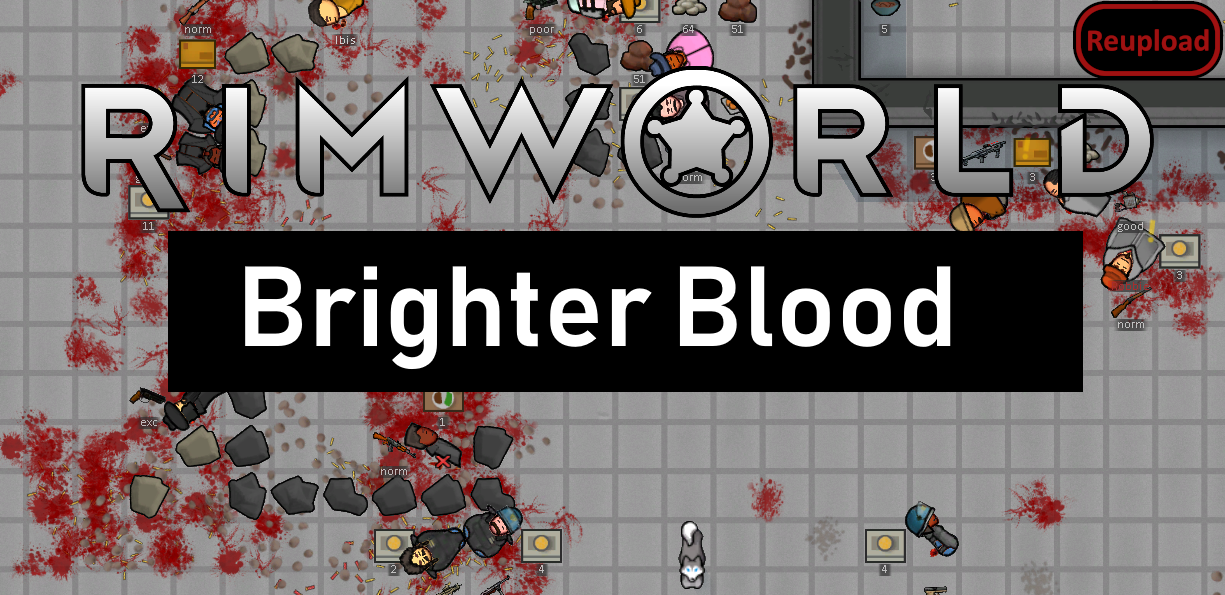
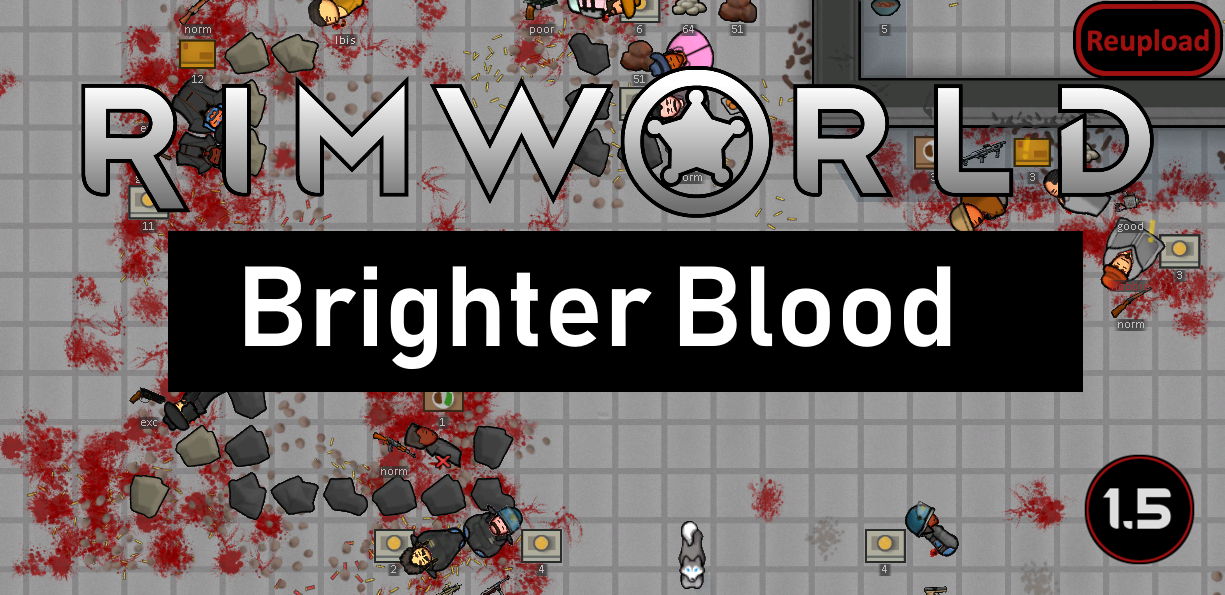
Mod updated for 1.5 and passed autotests

Changed region(s): [[0.8686, 0.7563, 0.9927, 0.9681]]

diff --git a/README.md b/README.md
@@ -33,11 +33,13 @@ Recommended to put this mod last on your load order to prevent any issues.
 
 -  See if the the error persists if you just have this mod and its requirements active.
 -  If not, try adding your other mods until it happens again.
--  Post your error-log using https://steamcommunity.com/workshop/filedetails/?id=818773962]HugsLib and command Ctrl+F12
+-  Post your error-log using https://steamcommunity.com/workshop/filedetails/?id=818773962]HugsLib or the standalone https://steamcommunity.com/sharedfiles/filedetails/?id=2873415404]Uploader and command Ctrl+F12
 -  For best support, please use the Discord-channel for error-reporting.
 -  Do not report errors by making a discussion-thread, I get no notification of that.
 -  If you have the solution for a problem, please post it to the GitHub repository.
+-  Use https://github.com/RimSort/RimSort/releases/latest]RimSort to sort your mods
 
 
 
+https://steamcommunity.com/sharedfiles/filedetails/changelog/2013195859]![Image](https://img.shields.io/github/v/release/emipa606/BrighterBlood?label=latest%20version&style=plastic&color=9f1111&labelColor=black)
 
